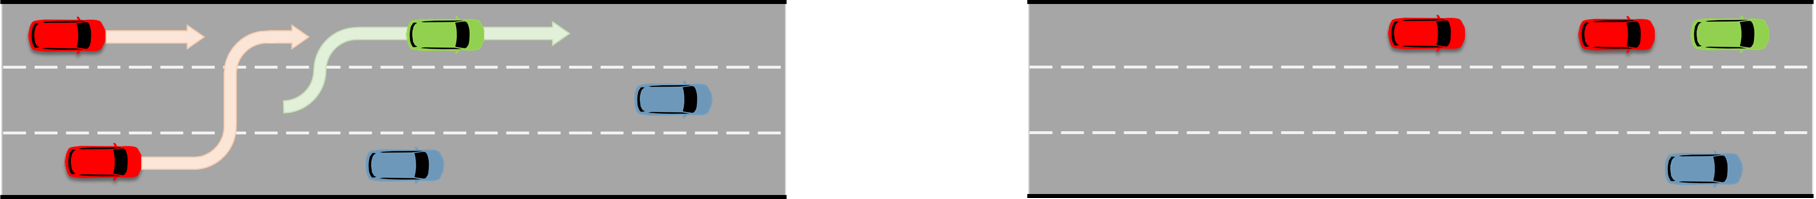
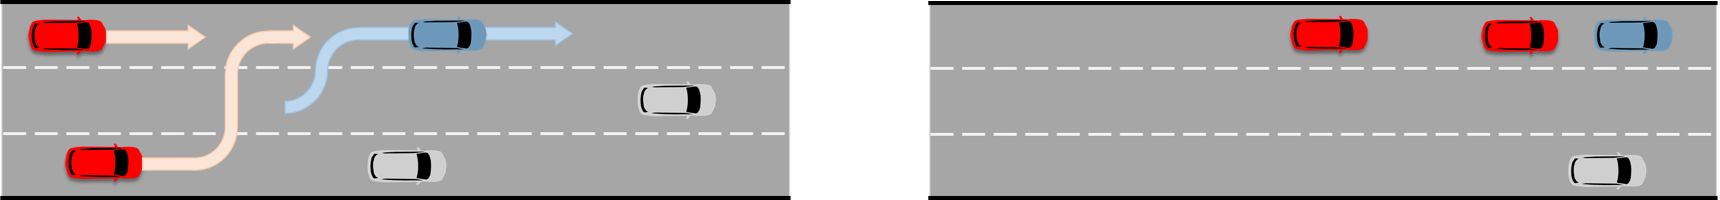
Replaced incorrect image.

diff --git a/docs/benchmarks/driving_smarts_2023_3.rst b/docs/benchmarks/driving_smarts_2023_3.rst
@@ -22,9 +22,9 @@ of the :attr:`~smarts.core.agent_interface.ActorsAliveDoneCriteria.actors_of_int
 
 .. figure:: ../_static/driving_smarts_2023/vehicle_following.png
 
-    Here, egos are in red, lead vehicle is in green, and background traffic is in blue. (Left) At the start of
-    episode, egos start tracking the lead vehicle. (Right) After a while, egos follow the lead vehicle in a 
-    single-file fashion.
+    Here, egos are in red colour, lead vehicle is in blue colour, and background traffic is in silver colour. 
+    (Left) At the start of episode, egos start tracking the lead vehicle. (Right) After a while, egos follow the
+    lead vehicle in a single-file fashion.
 
 An ego is terminated when its assigned leader reaches the leader's destination. Egos do not have prior knowledge of 
 the assigned leader's destination.
